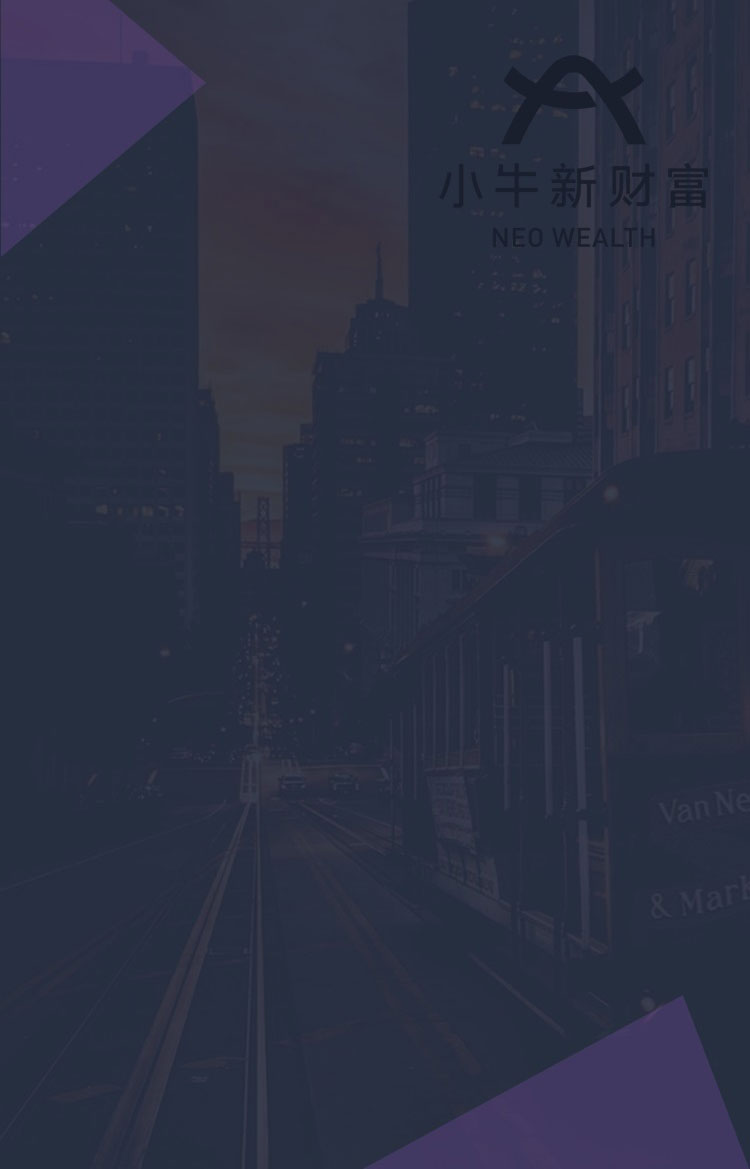
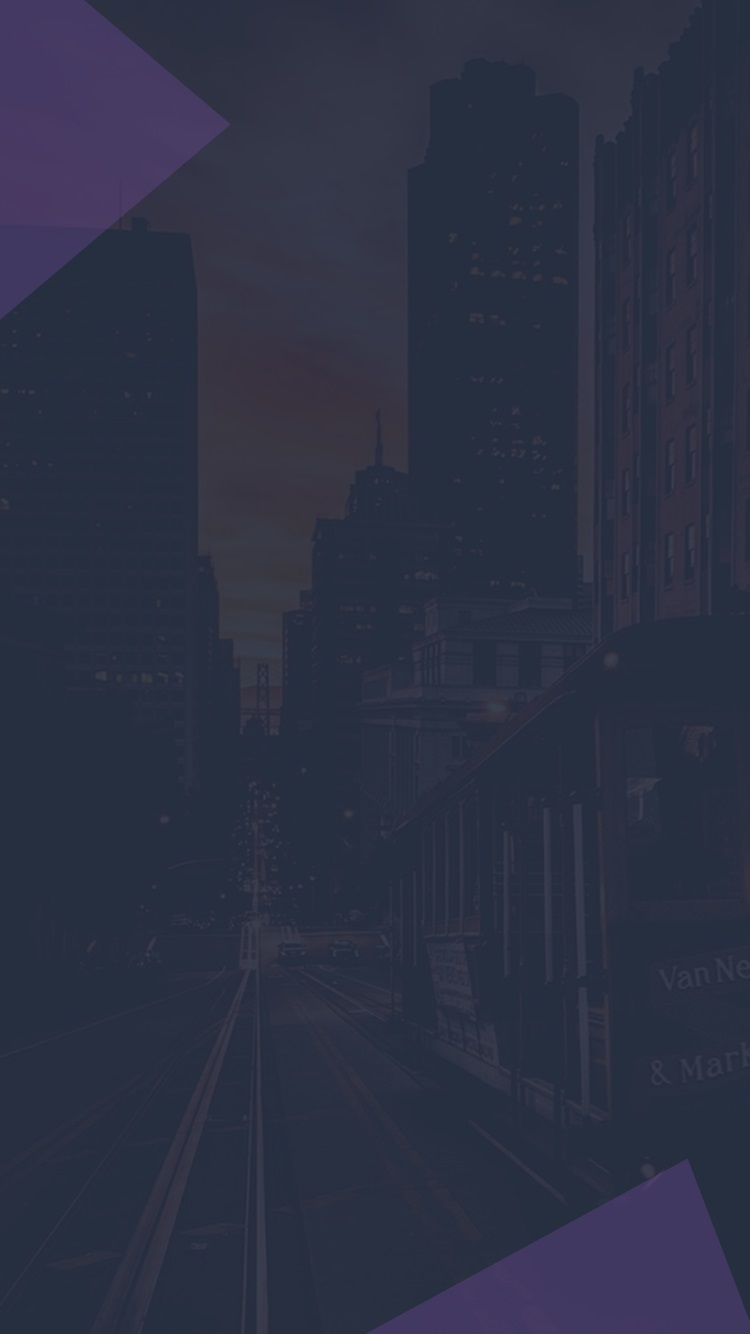
关于我们适配安卓端

diff --git a/aboutus/index.html b/aboutus/index.html
@@ -12,9 +12,10 @@
 		<link rel="stylesheet" href="css/newfund.css">
 	</head>
 
-	<body>
+	<body class="clearfix">
 		<!--页面主结构开始-->
 		<div id="app" class="mui-views">
+			<!-- <img id="bg" src="img/beijingtu.jpg" style="width: 100%;" />		 -->
 			<div class="mui-view">
 				<div class="mui-navbar"></div>
 				<div class="mui-pages"></div>
@@ -23,83 +24,88 @@
 		<!--页面主结构结束-->
 		<!--单页面开始-->
 		<div id="mainView" class="mui-page">
-			<!--页面标题栏开始-->
-			<div class="mui-navbar-inner mui-bar mui-bar-nav"></div>
-			<!--页面标题栏结束-->
-			<!--页面主内容区开始-->
-			<div id="slider" class="mui-slider" >
-				<div class="mui-slider-group mui-slider-loop">
-					<!-- 额外增加的一个节点(循环轮播：第一个节点是最后一张轮播) -->
-					<div class="mui-slider-item mui-slider-item-duplicate">
-						<a href="#">
-							<img src="img/slide1.jpg">
-						</a>
-					</div>
-					<!-- 第一张 -->
-					<div class="mui-slider-item">
-						<a href="#">
-							<img src="img/slide3.jpg">
-						</a>
-					</div>
-					<!-- 第二张 -->
-					<div class="mui-slider-item">
-						<a href="#">
-							<img src="img/slide2.jpg">
-						</a>
-					</div>
-					<!-- 第三张 -->
-					<div class="mui-slider-item">
-						<a href="#">
-							<img src="img/slide1.jpg">
-						</a>
-					</div>
-					<div class="mui-slider-item mui-slider-item-duplicate">
-						<a href="#">
-							<img src="img/slide3.jpg">
-						</a>
+			<div class="mw">
+				<!--页面标题栏开始-->
+				<div class="mui-navbar-inner mui-bar mui-bar-nav"></div>
+				<!--页面标题栏结束-->
+				<section class="logo">
+					<img src="img/logo.png" width="140" height="100" alt="小牛新财富">
+				</section>
+				<!--页面主内容区开始-->
+				<div id="slider" class="mui-slider" >
+					<div class="mui-slider-group mui-slider-loop">
+						<!-- 额外增加的一个节点(循环轮播：第一个节点是最后一张轮播) -->
+						<div class="mui-slider-item mui-slider-item-duplicate">
+							<a href="#">
+								<img src="img/slide1.jpg">
+							</a>
+						</div>
+						<!-- 第一张 -->
+						<div class="mui-slider-item">
+							<a href="#">
+								<img src="img/slide3.jpg">
+							</a>
+						</div>
+						<!-- 第二张 -->
+						<div class="mui-slider-item">
+							<a href="#">
+								<img src="img/slide2.jpg">
+							</a>
+						</div>
+						<!-- 第三张 -->
+						<div class="mui-slider-item">
+							<a href="#">
+								<img src="img/slide1.jpg">
+							</a>
+						</div>
+						<div class="mui-slider-item mui-slider-item-duplicate">
+							<a href="#">
+								<img src="img/slide3.jpg">
+							</a>
+						</div>
 					</div>
 				</div>
+				<div class="main-wrapper">
+					<div class="backImg">
+					</div>
+					<div class="info-wrapper mui-row">
+						<div class="mui-col-sm-6 mui-col-xs-6 info-left-box">
+							<a class="jz-img-a">
+								<img src="img/jiazaitu1.jpg" class="jz-img" />
+							</a>
+							<a href="#gslcDesc" style="margin-top: -1px;">
+								<img src="img/gongsilicheng.png" class="info-img" />
+							</a>
+						</div>
+						<div class="mui-col-sm-6 mui-col-xs-6 info-right-box">
+							<a href="#gywmDesc">
+								<img src="img/guanyuwomen.png" class="info-img" />
+							</a>
+							<a class="jz-img-a">
+								<img src="img/jiazaitu2.jpg" class="jz-img" />
+							</a>
+						</div>
+						<div class="mui-col-sm-6 mui-col-xs-6 info-left-box">
+							<a class="jz-img-a">
+								<img src="img/jiazaitu3.jpg" class="jz-img" />
+							</a>
+							<a href="#lxwmDesc">
+								<img src="img/lianxiwoemn.png" class="info-img" />
+							</a>
+						</div>
+						<div class="mui-col-sm-6 mui-col-xs-6 info-right-box">
+							<a href="#qyfgDesc" class="clickImg">
+								<img src="img/quyufugai.png" class="info-img" />
+							</a>
+							<a class="jz-img-a">
+								<img src="img/jiazaitu4.jpg" class="jz-img" />
+							</a>
+						</div>
+					</div>
+				</div>
+				<!--页面主内容区结束-->
+				
 			</div>
-			<div class="main-wrapper">
-				<div class="backImg">
-					<!-- <img src="img/beijingtu.jpg" /> -->
-				</div>
-				<div class="info-wrapper mui-row">
-					<div class="mui-col-sm-6 mui-col-xs-6 info-left-box">
-						<a class="jz-img-a">
-							<img src="img/jiazaitu1.jpg" class="jz-img" />
-						</a>
-						<a href="#gslcDesc" style="margin-top: -1px;">
-							<img src="img/gongsilicheng.png" class="info-img" />
-						</a>
-					</div>
-					<div class="mui-col-sm-6 mui-col-xs-6 info-right-box">
-						<a href="#gywmDesc">
-							<img src="img/guanyuwomen.png" class="info-img" />
-						</a>
-						<a class="jz-img-a">
-							<img src="img/jiazaitu2.jpg" class="jz-img" />
-						</a>
-					</div>
-					<div class="mui-col-sm-6 mui-col-xs-6 info-left-box">
-						<a class="jz-img-a">
-							<img src="img/jiazaitu3.jpg" class="jz-img" />
-						</a>
-						<a href="#lxwmDesc">
-							<img src="img/lianxiwoemn.png" class="info-img" />
-						</a>
-					</div>
-					<div class="mui-col-sm-6 mui-col-xs-6 info-right-box">
-						<a href="#qyfgDesc" class="clickImg">
-							<img src="img/quyufugai.png" class="info-img" />
-						</a>
-						<a class="jz-img-a">
-							<img src="img/jiazaitu4.jpg" class="jz-img" />
-						</a>
-					</div>
-				</div>
-			</div>
-			<!--页面主内容区结束-->
 		</div>
 		<!--单页面结束-->
 		<div id="gywmDesc" class="mui-page">

diff --git a/aboutus/css/newfund.css b/aboutus/css/newfund.css
@@ -5,11 +5,9 @@
 	display: table;
 }
 
-.mui-slider {
-	margin-top: 36%;
+.info-wrapper img {
+	display: block;
 }
-
-.info-wrapper {}
 
 .backImg {
 	width: 100%;
@@ -105,7 +103,6 @@ body {
 	bottom: 0;
 	width: 100%;
 	height: 100%;
-	background-color: #efeff4;
 }
 
 .mui-pages {
@@ -254,11 +251,17 @@ body {
 	padding: 0 15px;
 }
 
-#mainView {
+.mw {
 	background-image: url(../img/beijingtu.jpg);
 	background-size: 100% 100%;
+	padding-bottom: 20px;
 }
 
 .mui-slider {
 	width: 100%;
+}
+
+.logo {
+	text-align: right;
+	padding: 10px 20px;
 }

diff --git a/aboutus/index.js b/aboutus/index.js
@@ -6,6 +6,8 @@ $(function(){
 		});
 	},1000)
 	
+
+
 	mui.init();
 	//初始化单页view
 	var viewApi = mui('#app').view({
@@ -82,3 +84,4 @@ function hideMain(){
 function showMain(){
 	$(".main-wrapper").show();
 }
+

diff --git a/application/views/ui/operate_result2.php b/application/views/ui/operate_result2.php
@@ -13,7 +13,7 @@
 	            <h3 class="text-center"><?php echo $head_title?></h3>
 	        </div>
 	    </section>
-		<h2 style="text-align:center"><?php echo $ret_msg?></h2> 
+		<h3 style="text-align:center;padding: 30px;"><?php echo $ret_msg?></h3> 
 	</div>
 	<form  name="form" method="post" action=<?php echo $forward_url?> id="login_form">
 	    	<input type='hidden' id="data123" name="data" value=<?php echo isset($data)?$data:'';?> />

diff --git a/application/views/jijin/account/view_risk_test_result.php b/application/views/jijin/account/view_risk_test_result.php
@@ -23,7 +23,7 @@
 	    		echo '<i class="risk-result-icon iconfont">&#xe606;</i>';
 	    	}
 	    	?>
-			<h2 style="text-align:center"><?php echo $ret_msg?></h2> 
+			<h2 style="text-align:center;"><?php echo $ret_msg?></h2> 
 			<h2 style="text-align:center">您的风险等级为： <?php echo $custrisk?></h2>
 		</div>
 		<a href="<?php  
